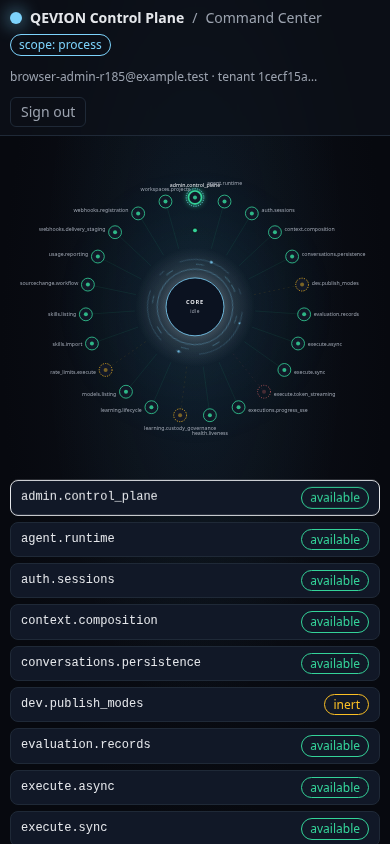
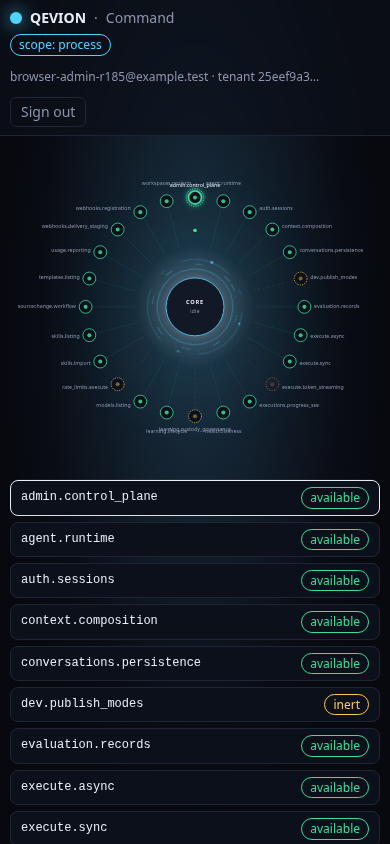
R199 GREEN evidence: green.txt, real-browser probe (json + .py.txt + screenshots), ledger rows 2-4

diff --git a/evidence/r199_state_ledger.md b/evidence/r199_state_ledger.md
@@ -3,3 +3,6 @@
 | # | step | sha / ref | evidence | result |
 |---|------|-----------|----------|--------|
 | 1 | opening declaration (before code) | branch `genspark_ai_developer_r199` from `main f1a9752a` | `round_r199` ceiling 0; R199-DEC-01 (operator D1–D5 verbatim); `R199_HANDOFF.md` OPEN | DECLARED |
+| 2 | RED | c32a7bab (opening tree) | `evidence/r199/red.txt` | 17 FAILED / 5 passed as planned (brand, tokens, links, providers, truth strip, Command sign-in copy); ruff clean. NOTE: a sandbox reset erased the first unpushed RED commit and HTML edits; redone from the pushed declaration 7b230ee9 — no lost work reached the branch. |
+| 3 | GREEN (R199-A..E) | 72c3eb8b (A/C/E html), then B/D + moved title pins → 1607ee75 | `evidence/r199/green.txt`; `evidence/r199/browser_probe_1607ee75.{json,py.txt}`; `workbench_models_truth.png`, `command_signin.png` | 22/22 R199 guards; tests/ui + composition UI pins GREEN (107 static, 2 browser proofs); real browser: titles `QEVION · Workbench/Command/Admin`; links per tree = the other two mounts; truth strip `models 1 · providers local_echo · availability available 1` == served `/v1/models`; Command `--brand` resolves to `#4fd6ff` (shared accent). Two inherited-guard trips during GREEN (word "three" in an HTML comment; `/v1/` in a CSS comment) fixed by wording, recorded here. |
+| 4 | invariants at 1607ee75 | working tree | this row | `git diff origin/main -- core apps infrastructure` EMPTY (changes_used 0/0); freeze `--check` MATCHES (46); ui/admin/app.js 73, command.js 12 (both byte-identical to main), ui/app/app.js 22 / fetch 4; no `/v1/` in any css; no `href` with `/v1/`. |
